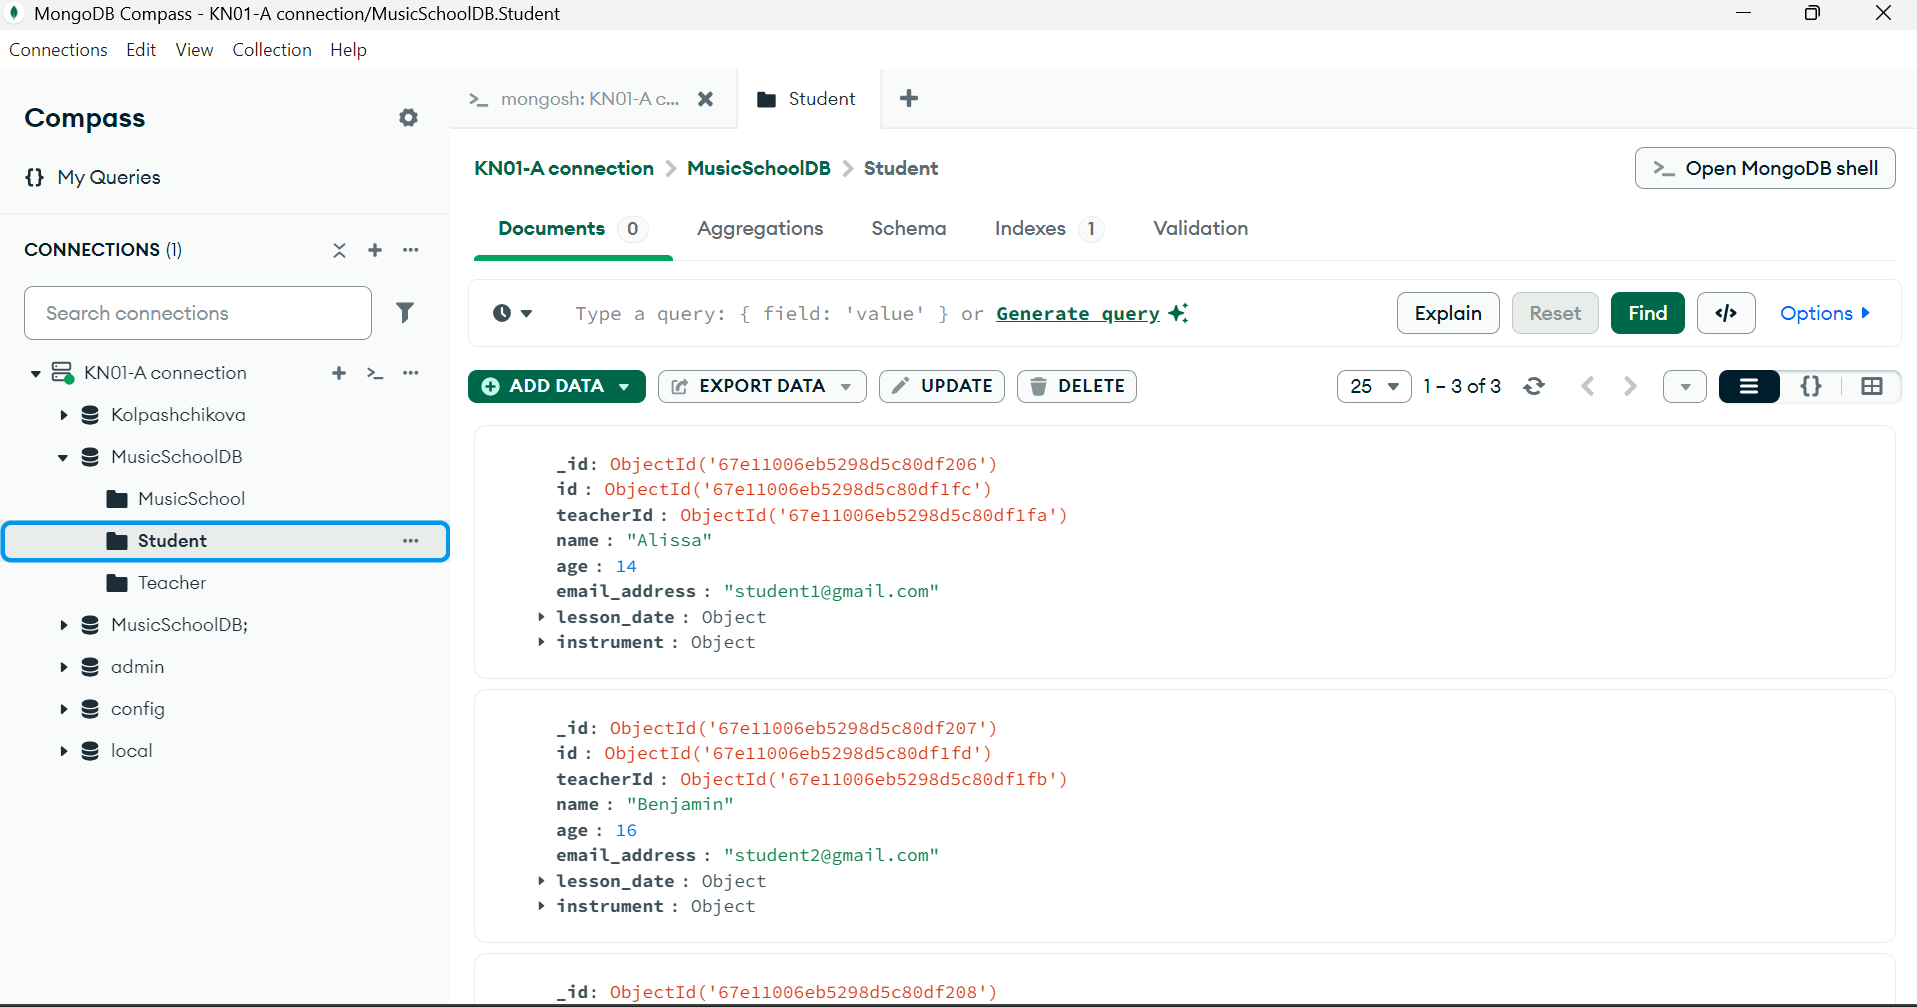
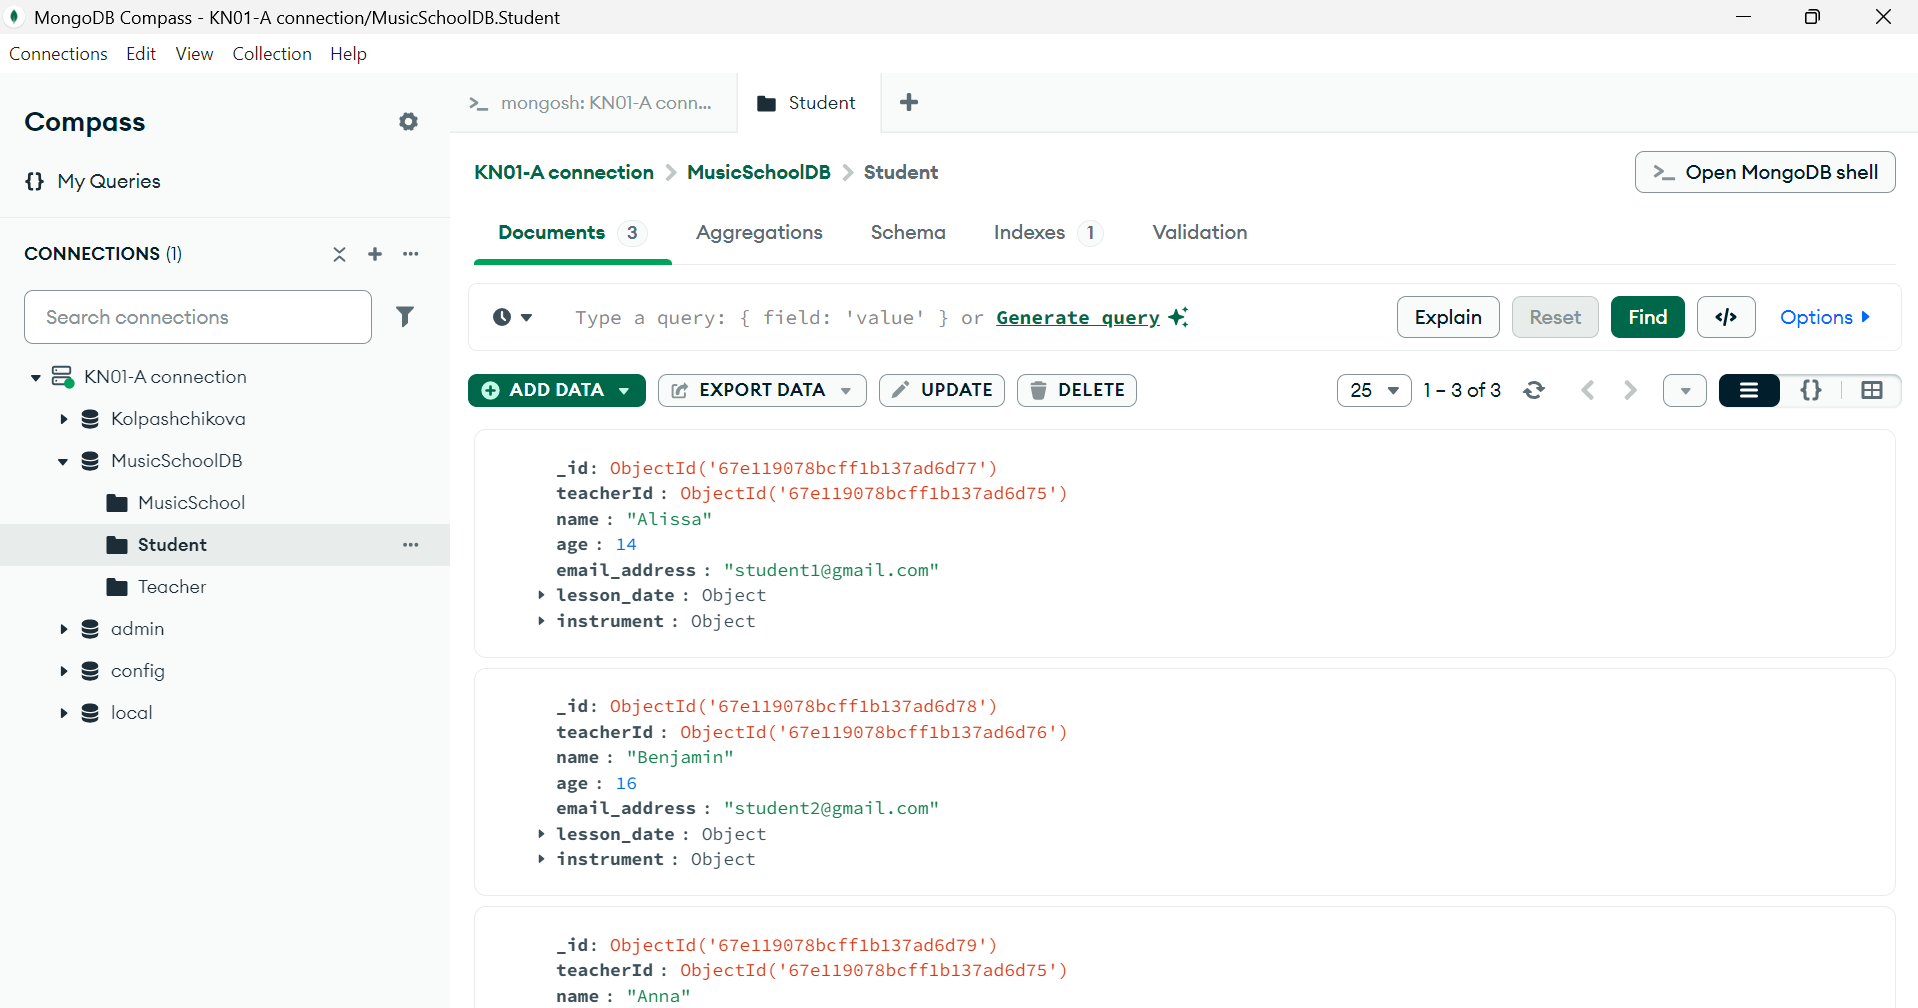
Adjusted _id in scripts and pngs and finished task B

diff --git a/KN03/script-daten-hinzufügen.js b/KN03/script-daten-hinzufügen.js
@@ -1,7 +1,7 @@
 //use MusicSchoolDB;
 
 db.MusicSchool.insertOne({
-    id: schoolId,
+    _id: schoolId,
     name: "Adliswil Musikschule",
     teacher_id: [teacherId1, teacherId2],
     address: "Adliswil 8134, Zürich",
@@ -21,22 +21,22 @@ const instrumentId3 = new ObjectId();
 
 db.Teacher.insertMany([
     {
-        id: teacherId1,
+        _id: teacherId1,
         name: "Herr Sacha",
         email_address: "hello@gmail.com",
         days_available: [new Date("2024-03-25T00:00:00Z"), new Date("2024-03-28T00:00:00Z")],
         Classroom: {
-            id: classRoomId1,
+            _id: classRoomId1,
             classRoom_number: 205
         }
     },
     {
-        id: teacherId2,
+        _id: teacherId2,
         name: "Herr Pascal",
         email_address: "hallo@gmail.com",
         days_available: [new Date("2024-03-26T00:00:00Z"), new Date("2024-03-29T00:00:00Z")],
         Classroom: {
-            id: classRoomId2,
+            _id: classRoomId2,
             classRoom_number: 105
         }
     }
@@ -44,7 +44,7 @@ db.Teacher.insertMany([
 
 db.Student.insertMany([
     {
-        id: studentId1,
+        _id: studentId1,
         teacherId: teacherId1,
         name: "Alissa",
         age: 14,
@@ -53,12 +53,12 @@ db.Student.insertMany([
             "$date": "2007-08-30T00:00:00.000Z"
         },
         instrument: {
-            id: instrumentId1,
+            _id: instrumentId1,
             name: "Klarinette"
         }
     },
     {
-        id: studentId2,
+        _id: studentId2,
         teacherId: teacherId2,
         name: "Benjamin",
         age: 16,
@@ -67,12 +67,12 @@ db.Student.insertMany([
             "$date": "2007-08-30T00:00:00.000Z"
         },
         instrument: {
-            id: instrumentId2,
+            _id: instrumentId2,
             name: "Gitarre"
         }
     },
     {
-        id: studentId3,
+        _id: studentId3,
         teacherId: teacherId1,
         name: "Anna",
         age: 15,
@@ -81,10 +81,10 @@ db.Student.insertMany([
             "$date": "2007-08-30T00:00:00.000Z"
         },
         instrument: {
-            id: instrumentId3,
+            _id: instrumentId3,
             name: "Klavier"
         }
     }
 ]);
 
-print("Data inserted successfully!");
+print("successfully inserted data");

diff --git a/KN03/delete-individual-entries.js b/KN03/delete-individual-entries.js
@@ -1,0 +1,11 @@
+// use MusicSchoolDB;
+
+db.Teacher.deleteOne({_id: ObjectId("67e119078bcff1b137ad6d75")});
+db.Student.deleteMany({
+    $or: [
+        { _id: ObjectId("67e119078bcff1b137ad6d77") },
+        { _id: ObjectId("67e119078bcff1b137ad6d79") }
+    ]
+})
+
+print("deleted iduvidual entries from collections")

diff --git a/KN03/delete-whole-collection.js b/KN03/delete-whole-collection.js
@@ -1,0 +1,7 @@
+// use MusicSchoolDB;
+
+db.MusicSchool.drop()
+db.Teacher.drop()
+db.Student.drop()
+
+print("Successfully deleted collections")

diff --git a/KN03/README.md b/KN03/README.md
@@ -7,3 +7,10 @@ These are screenshots to show that the commands worked and showed that the data 
 ![screenshot](./images/Student-Collection-Data.png)
 
 ### Abgabe Aufgabe B
+This is the script to delete only the collections from the db: [deleteCollections](delete-whole-collection.js)
+Thats the output when i run it in mongosh. As you can see the MusicSchoolDB is empty:
+![screenshot](./images/delete-commands-each-collection.png)
+
+Thats the output of the commands that individual entries are deleted in mongosh:
+![screenshot](./images/delete-individual-entries-commands.png)
+![screenshot](./images/student-collection-output.png)
